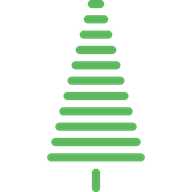
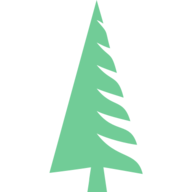
EVG-13647 update code-server (#2)

Changed region(s): [[0.2188, 0.0, 0.7812, 1.0]]

diff --git a/make_tarball.py b/make_tarball.py
@@ -18,7 +18,9 @@ CODE_SERVER_RELEASES_URL = "https://api.github.com/repos/cdr/code-server/release
 CODE_SERVER_RELEASE_ASSET_URL = "https://api.github.com/repos/cdr/code-server/releases/assets/{asset_id}"
 ICON_PATH = "src/browser/media/"
 PRODUCT_PATH = "lib/vscode/product.json"
+PWA_MANIFEST_PATH = "src/browser/media/manifest.json"
 PRODUCT_NAME = "Evergreen - IDE"
+PRODUCT_NAME_SHORT = "IDE"
 
 def download_extensions(extensions, destination_dir):
     Path(destination_dir).mkdir(parents=True, exist_ok=True)
@@ -60,18 +62,28 @@ def download_code_server(release, architecture, destination_dir):
         with tarfile.open(fileobj=r.raw) as tf:
             tf.extractall(temp_dir)
         shutil.copytree(os.path.join(temp_dir, asset_name[:-7]), destination_dir)
+    
+    return release_info["name"]
 
 def customize_code_server(base_dir):
     print("replacing icons")
     for icon_file in os.listdir("icons"):
         shutil.copy(os.path.join("icons", icon_file), os.path.join(base_dir, ICON_PATH))
-    print("changing application name")
+    print("changing application name in product.json")
     with open(os.path.join(base_dir, PRODUCT_PATH)) as product_config:
         product_json = json.load(product_config)
-    product_json["nameShort"] = PRODUCT_NAME
+    product_json["nameShort"] = PRODUCT_NAME_SHORT
     product_json["nameLong"] = PRODUCT_NAME
     with open(os.path.join(base_dir, PRODUCT_PATH), 'w') as product_config:
         json.dump(product_json, product_config)
+
+    print("changing application name in PWA's manifest.json")
+    with open(os.path.join(base_dir, PWA_MANIFEST_PATH)) as pwa_manifest:
+        manifest_json = json.load(pwa_manifest)
+    manifest_json["short_name"] = PRODUCT_NAME_SHORT
+    manifest_json["name"] = PRODUCT_NAME
+    with open(os.path.join(base_dir, PWA_MANIFEST_PATH), 'w') as pwa_manifest:
+        json.dump(manifest_json, pwa_manifest)
 
 def make_tarball(code_server_dir, extensions_dir, output_path):
     print("creating tarball")
@@ -88,14 +100,14 @@ def get_extension_list(extension_json_path):
 def upload_to_s3(bucket, tarball_path, object_name):
     print("uploading to s3")
     s3_client = boto3.client("s3")
-    s3_client.upload_file(tarball_path, bucket, object_name)
+    s3_client.upload_file(tarball_path, bucket, object_name, ExtraArgs={"ACL": "public-read"})
 
 
 def main():
     parser = argparse.ArgumentParser(description="Create a code-server distribution for Evergreen virtual-workstations")
     parser.add_argument("extensions", help="JSON file listing extensions to include")
     parser.add_argument("--release", help="code-server release", default="latest")
-    parser.add_argument("--architecture", help="code-server binary for ARCHITECTURE", default="linux-x86_64", choices=["linux-x86_64", "linux-arm64", "darwin-x86_64", "alpine-x86_64", "alpine-arm64"])
+    parser.add_argument("--architecture", help="code-server binary for ARCHITECTURE", default="linux-amd64", choices=["linux-amd64", "linux-arm64", "macos-amd64"])
     parser.add_argument("--destination", help="Local directory to output the tarball", default=os.getcwd())
     parser.add_argument("--s3_bucket", help="s3 bucket to upload to")
     args = parser.parse_args()
@@ -104,10 +116,10 @@ def main():
     with tempfile.TemporaryDirectory() as tempDir:
         code_server_dir = os.path.join(tempDir, "code-server")
         extensions_dir = os.path.join(tempDir, "extension_packages")
-        download_code_server(args.release, args.architecture, code_server_dir)
+        upstream_version = download_code_server(args.release, args.architecture, code_server_dir)
         customize_code_server(code_server_dir)
         download_extensions(extensions, extensions_dir)
-        output_name = "{date}_{architecture}_code-server.tgz".format(architecture=args.architecture, date=date.today().isoformat())
+        output_name = "{date}_code-server-{upstream_version}-{architecture}.tgz".format(architecture=args.architecture, date=date.today().isoformat(), upstream_version=upstream_version)
         make_tarball(code_server_dir, extensions_dir, os.path.join(args.destination, output_name))
 
     if args.s3_bucket is not None:
